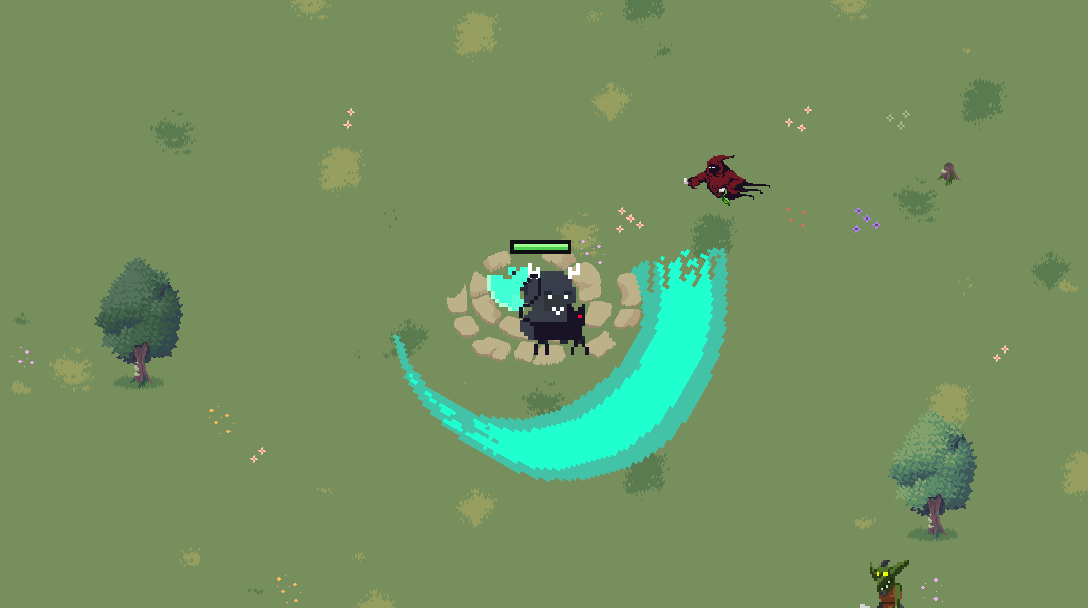
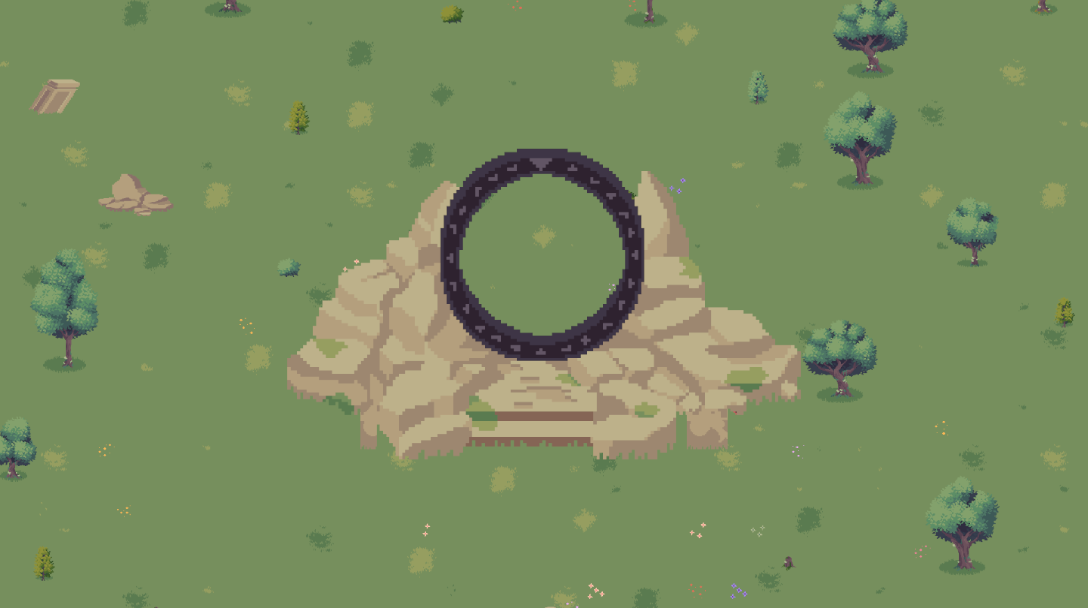
Fix PlayerInput leak, empty stage previews, Stump rainbow drop, add README
- PlayerInput: release every wrapper through PlayerInputLifetime, which
  disables all action maps before destroying the asset. The generated
  Dispose() only destroyed the asset, so maps left enabled (PauseMenu's
  Pause action, the character input) tripped the finalizer's
  "Motor.Disable() has not been called" assert and leaked actions.
- Stage previews: empty in-game renders (no player, enemies or drops) at
  the game's own camera size, centred on each map's landmark
  (Map_01 portal, Map_02 shrine fountain).
- Stump always drops a Rainbow EXP on death, beside its regular gem.
- README.md: how to run the Windows .exe, controls, saves, troubleshooting
  and how to build it from source.
- Ignore Performance Testing run outputs in Assets/Resources.

diff --git a/Assets/Scripts/Player/Input/PlayerInputLifetime.cs b/Assets/Scripts/Player/Input/PlayerInputLifetime.cs
@@ -1,0 +1,54 @@
+/// <summary>
+/// Creates and releases <see cref="PlayerInput"/> wrappers safely.
+///
+/// The generated <c>PlayerInput.Dispose()</c> only destroys the action asset; it does not disable the
+/// action maps first. A map left enabled (PauseMenu enables Motor/Pause, Input enables everything) then
+/// trips the generated finalizer's "PlayerInput.Motor.Disable() has not been called" assert when the
+/// garbage collector runs, and keeps the actions registered with the Input System until then.
+/// Always release through here instead of calling Dispose directly. The generated file is not edited
+/// because the Input System regenerates it whenever PlayerInput.inputactions changes.
+/// </summary>
+public static class PlayerInputLifetime
+{
+    /// <summary>New wrapper with the player's saved key bindings applied.</summary>
+    public static PlayerInput Create()
+    {
+        var input = new PlayerInput();
+        KeyBindings.Register(input.asset);
+        return input;
+    }
+
+    /// <summary>Unregisters, disables every action map, destroys the asset and clears the reference.</summary>
+    public static void Release(ref PlayerInput input)
+    {
+        if (input == null)
+        {
+            return;
+        }
+
+        KeyBindings.Unregister(input.asset);
+
+        // The maps are plain managed objects: disabling works even when the asset object was already
+        // destroyed/unloaded during scene teardown, and the finalizer reads exactly this state.
+        try
+        {
+            input.Disable();
+        }
+        catch (System.Exception)
+        {
+            // Asset torn down beyond use: fall back to the one map the finalizer checks.
+            if (input.Motor.enabled)
+            {
+                input.Motor.Disable();
+            }
+        }
+
+        if (input.asset != null)
+        {
+            input.Dispose();
+        }
+
+        System.GC.SuppressFinalize(input); // released properly: nothing left for the finalizer to check
+        input = null;
+    }
+}

diff --git a/Assets/Scripts/Player/Input/Input.cs b/Assets/Scripts/Player/Input/Input.cs
@@ -11,18 +11,13 @@ public class Input : MonoBehaviour
 
     private void Awake()
     {
-        _input = new PlayerInput();
+        _input = PlayerInputLifetime.Create(); // with the player's rebinds from the Options screen
         _motor = _input.Motor;
-        KeyBindings.Register(_input.asset); // player's rebinds from the Options screen
     }
 
     private void OnDestroy()
     {
-        if (_input != null)
-        {
-            KeyBindings.Unregister(_input.asset);
-            _input.Dispose();
-        }
+        PlayerInputLifetime.Release(ref _input);
     }
 
     private void Update()
@@ -64,11 +59,11 @@ public class Input : MonoBehaviour
 
     private void OnEnable()
     {
-        _input.Enable();
+        _input?.Enable();
     }
 
     private void OnDisable()
     {
-        _input.Disable();
+        _input?.Disable();
     }
 }

diff --git a/Assets/Scripts/Experience/Runtime/ExperiencePickupService.cs b/Assets/Scripts/Experience/Runtime/ExperiencePickupService.cs
@@ -140,7 +140,8 @@ public sealed class ExperiencePickupService : MonoBehaviour
         Vector3 position,
         int baseExperience,
         EnemyExperienceRank rank,
-        bool dropRedForBossDeath = true
+        bool dropRedForBossDeath = true,
+        bool guaranteeRainbow = false
     )
     {
         switch (rank)
@@ -158,7 +159,15 @@ public sealed class ExperiencePickupService : MonoBehaviour
                 break;
         }
 
-        TryDropRainbow(position);
+        if (guaranteeRainbow)
+        {
+            // Beside the regular gem so both stay visible and pickable.
+            Spawn(ExperiencePickupType.RainbowMagnet, 0, position + new Vector3(0.6f, 0f, 0f));
+        }
+        else
+        {
+            TryDropRainbow(position);
+        }
     }
 
     public void DropBossPhaseReward(Vector3 position, int baseExperience)

diff --git a/Assets/Scripts/Experience/Runtime/EnemyExperienceDropper.cs b/Assets/Scripts/Experience/Runtime/EnemyExperienceDropper.cs
@@ -20,6 +20,10 @@ public sealed class EnemyExperienceDropper : MonoBehaviour
     )]
     private bool dropRedOnBossDeath = true;
 
+    [SerializeField]
+    [Tooltip("Always drops a Rainbow EXP (pulls every gem on the map) on death, besides its regular gem. Used by Stump.")]
+    private bool alwaysDropRainbow;
+
     private EnemyHealth health;
     private EnemyPoolMember poolMember;
 
@@ -86,6 +90,12 @@ public sealed class EnemyExperienceDropper : MonoBehaviour
 
     private void DropDeathReward()
     {
-        ExperiencePickupService.Instance.DropEnemyReward(transform.position, baseExperience, rank, dropRedOnBossDeath);
+        ExperiencePickupService.Instance.DropEnemyReward(
+            transform.position,
+            baseExperience,
+            rank,
+            dropRedOnBossDeath,
+            alwaysDropRainbow
+        );
     }
 }

diff --git a/Assets/Scripts/Menu/Runtime/OptionsPanel.cs b/Assets/Scripts/Menu/Runtime/OptionsPanel.cs
@@ -43,8 +43,7 @@ public sealed class OptionsPanel : MonoBehaviour
 
     private void Build()
     {
-        input = new PlayerInput();
-        KeyBindings.Register(input.asset);
+        input = PlayerInputLifetime.Create();
 
         float x = (MenuUI.VirtualWidth - Width) / 2f;
         float y = (MenuUI.VirtualHeight - Height) / 2f;
@@ -267,12 +266,7 @@ public sealed class OptionsPanel : MonoBehaviour
     {
         CancelRebind();
         SetNavigation(true);
-        if (input != null)
-        {
-            KeyBindings.Unregister(input.asset);
-            input.Dispose();
-            input = null;
-        }
+        PlayerInputLifetime.Release(ref input);
     }
 }
 

diff --git a/Assets/Scripts/Menu/Runtime/PauseMenu.cs b/Assets/Scripts/Menu/Runtime/PauseMenu.cs
@@ -31,8 +31,7 @@ public sealed class PauseMenu : MonoBehaviour
 
     private void Awake()
     {
-        input = new PlayerInput();
-        KeyBindings.Register(input.asset);
+        input = PlayerInputLifetime.Create();
         input.Motor.Pause.Enable();
     }
 
@@ -184,10 +183,6 @@ public sealed class PauseMenu : MonoBehaviour
     private void OnDestroy()
     {
         GameplayPause.Release(this);
-        if (input != null)
-        {
-            KeyBindings.Unregister(input.asset);
-            input.Dispose();
-        }
+        PlayerInputLifetime.Release(ref input);
     }
 }

diff --git a/README.md b/README.md
@@ -1,0 +1,87 @@
+# Prototype Auto Shooter
+
+Game bắn tự động góc nhìn top-down (Unity 6, 2D URP). Chọn 1 trong 3 nhân vật (Iris, Lily, Zena), chọn map
+(Whispering Grove / Ancient Ruins), sống sót qua các phase quái ngày càng mạnh, nhặt EXP để lên cấp và
+tiến hoá vũ khí.
+
+---
+
+## Chạy file .exe (Windows)
+
+### Yêu cầu
+- Windows 10 / 11 bản 64-bit
+- Card đồ hoạ hỗ trợ DirectX 11 trở lên
+- Khoảng 200 MB trống
+
+### Các bước
+1. Lấy thư mục build `Windows` (bản nén `.zip` được chia sẻ, hoặc tự build theo mục **Tự build từ source** bên dưới).
+2. Giải nén **toàn bộ** thư mục ra một chỗ bất kỳ, ví dụ `D:\Games\AutoShooter\`. Bên trong phải có đủ:
+   ```
+   Prototype_Auto_Shooter_Game.exe
+   Prototype_Auto_Shooter_Game_Data\      <- bắt buộc, nằm cạnh file .exe
+   MonoBleedingEdge\
+   UnityPlayer.dll
+   UnityCrashHandler64.exe
+   ```
+   Không copy riêng file `.exe` ra chỗ khác: game sẽ không mở được nếu thiếu thư mục `_Data`.
+3. Nhấp đúp `Prototype_Auto_Shooter_Game.exe`.
+4. Nếu Windows SmartScreen hiện "Windows protected your PC": bấm **More info** → **Run anyway**
+   (file build chưa được ký số nên Windows cảnh báo, không phải virus).
+5. Game mở ở **Main Menu** → **START** → chọn nhân vật → chọn map.
+
+### Chạy ở chế độ cửa sổ
+Vào **OPTIONS** trong menu để bật/tắt Fullscreen, hoặc chạy bằng dòng lệnh:
+```bash
+Prototype_Auto_Shooter_Game.exe -screen-fullscreen 0 -screen-width 1280 -screen-height 720
+```
+
+---
+
+## Điều khiển
+
+| Phím | Chức năng |
+|---|---|
+| `W` `A` `S` `D` | Di chuyển |
+| Chuột | Hướng tấn công (vũ khí tự bắn theo hướng chuột) |
+| `X` | Ultimate (Zena: đổi dạng cận chiến / tầm xa) |
+| `Esc` | Tạm dừng / mở menu Pause |
+| Mũi tên + `Enter` | Điều hướng menu, chọn nâng cấp khi lên cấp |
+
+Có thể đổi phím trong **OPTIONS → CONTROLS**.
+
+## Mẹo chơi
+- Quái mạnh dần theo phase (phút 3, 5, 7, 15, 30) và còn tăng thêm theo từng phút trong phase.
+- Elite xuất hiện theo đợt, máu rất trâu nhưng rơi EXP đỏ lớn.
+- **Gốc cây (Stump)** đứng yên, rất nhiều máu: hạ được sẽ **chắc chắn rơi Rainbow EXP** hút toàn bộ EXP trên map.
+- Đồ ăn rơi trên map hồi máu.
+- **SAVE & QUIT** trong menu Pause lưu lại ván đang chơi; **RESUME** ở Main Menu để chơi tiếp.
+
+## Dữ liệu lưu
+- Ván đang chơi: `%USERPROFILE%\AppData\LocalLow\DefaultCompany\Prototype_Auto_Shooter_Game\run_save.json`
+- Cài đặt và phím: Windows Registry, `HKEY_CURRENT_USER\Software\DefaultCompany\Prototype_Auto_Shooter_Game`
+- Xoá các mục trên để chơi lại từ đầu.
+
+## Gặp lỗi?
+- Game không mở / màn hình đen: kiểm tra đã giải nén đủ thư mục `_Data` chưa, cập nhật driver card đồ hoạ.
+- Log của game nằm ở `%USERPROFILE%\AppData\LocalLow\DefaultCompany\Prototype_Auto_Shooter_Game\Player.log`
+  (gửi file này kèm khi báo lỗi).
+
+---
+
+## Tự build từ source
+
+File `.exe` không được đưa lên git (thư mục `Builds/` nằm trong `.gitignore` vì quá nặng). Để tự build:
+
+1. Cài **Unity 6000.3.10f1** qua Unity Hub (kèm module *Windows Build Support (Mono)*).
+2. Clone repo và mở thư mục project bằng Unity Hub (lần đầu mở sẽ mất vài phút để import).
+3. `File → Build Profiles` → chọn **Windows** → kiểm tra Scene List theo thứ tự:
+   `MainMenu`, `Map_01`, `Map_02` (MainMenu phải đứng đầu).
+4. Bấm **Build**, chọn thư mục `Builds/Windows`, đặt tên `Prototype_Auto_Shooter_Game.exe`.
+5. Chạy file `.exe` vừa tạo như hướng dẫn ở trên. Muốn chia sẻ thì nén **cả thư mục** `Builds/Windows`.
+
+### Ghi chú cho người phát triển
+- Bấm Play trong Editor luôn bắt đầu từ Main Menu. Tắt/bật ở `Tools → Menu → Play From Main Menu`
+  khi muốn test thẳng một map.
+- Chỉ số quái: `Assets/GameContent/Enemies/EnemyConfig.csv` (chạy `Tools → Enemies → Build From EnemyConfig.csv`
+  sau khi sửa) và `EnemyPhaseConfig.csv` (chỉ cần Play lại).
+- Hướng dẫn cấu hình vũ khí: [Docs/Weapon_Configuration_Guide.md](Docs/Weapon_Configuration_Guide.md).
